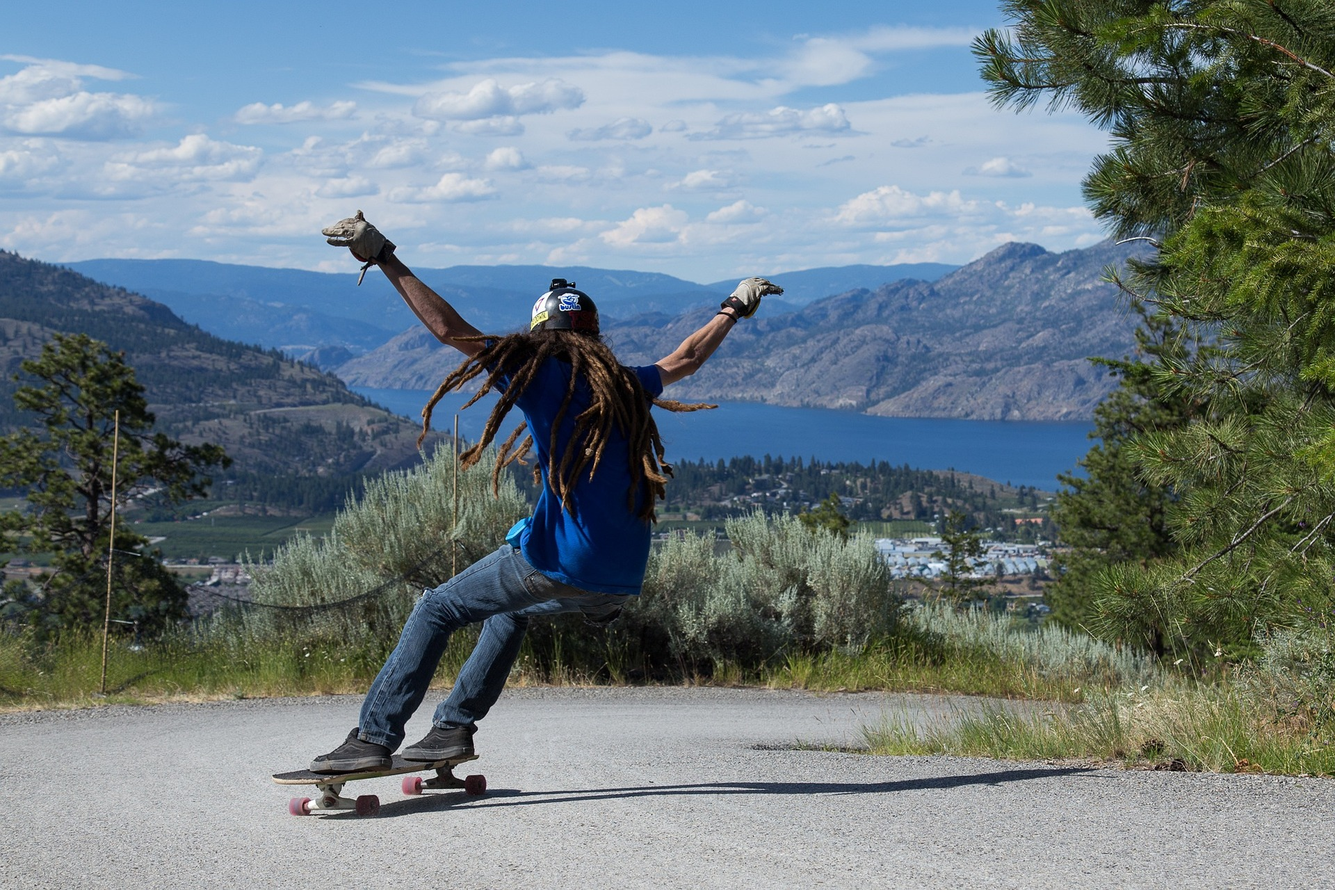
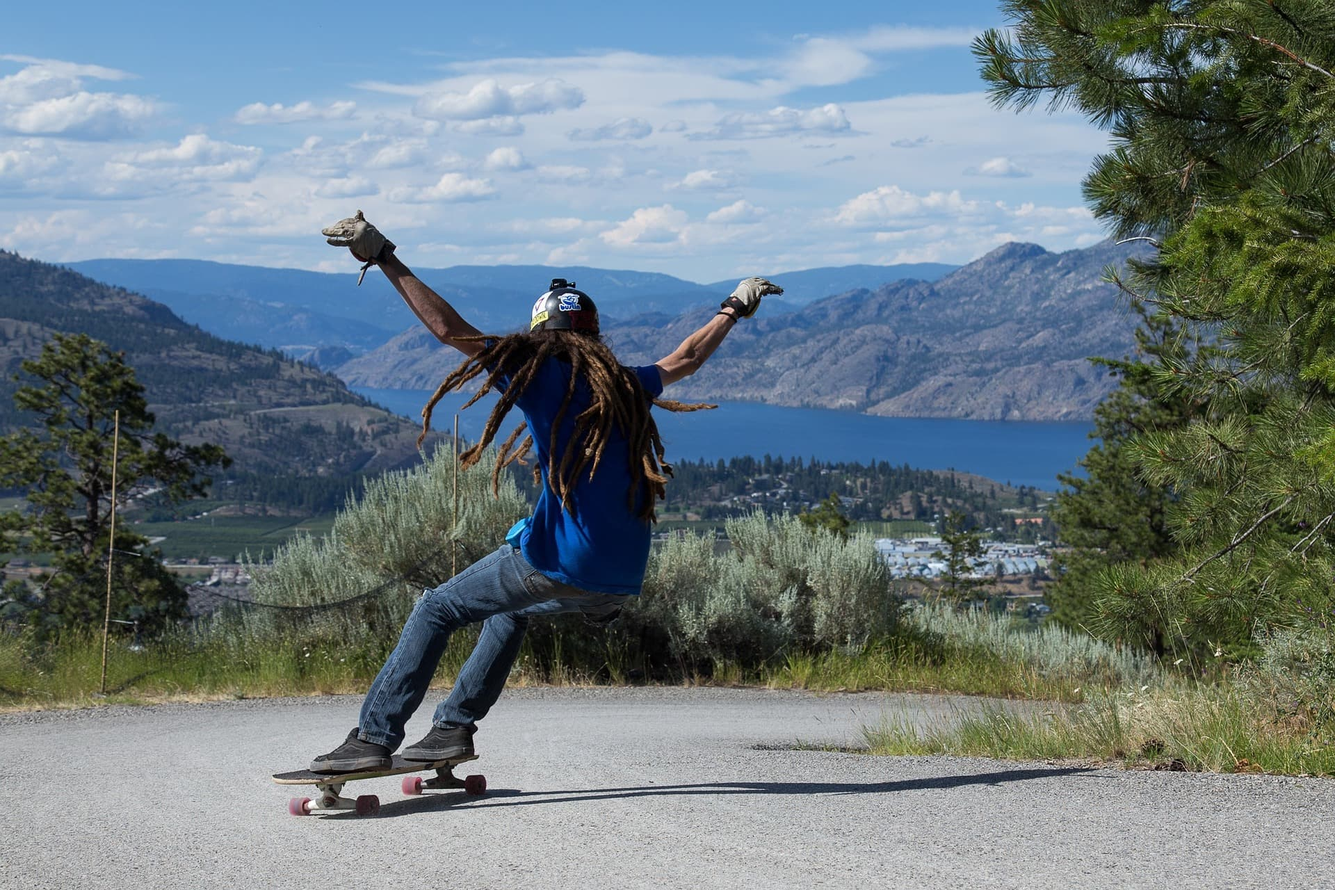
ultima optimizacion de imagen

diff --git a/pages/galeria.html b/pages/galeria.html
@@ -54,7 +54,7 @@
             <h1 class="animate__animated animate__fadeInUp">GALERIA</h1>
             <article>
                 <ul class="galeria__contenido">
-                    <li><img src="../recursos/img/prueba1.png" alt="Skater en prompt"></li>
+                    <li><img src="../recursos/img/prueba1.jpg" alt="Skater en prompt"></li>
                     <li><img src="../recursos/img/galeria-2.jpg" alt="Mobile skatepark"></li>
                     <li><img src="../recursos/img/galeria-3.jpg" alt="Gatos en patineta"></li>
                     <li><img src="../recursos/img/galeria-4.jpg" alt="Skater en downhill"></li>

diff --git a/pages/contacto.html b/pages/contacto.html
@@ -61,7 +61,7 @@
 
                     <em>¡Saludos cordiales!</em>
                 </p>
-                <img src="../recursos/img/skatePark.png" alt="SkatePark">
+                <img src="../recursos/img/skatePark.jpg" alt="SkatePark">
             </article>
             <form action="" class="formulario">
                 <label for="nombre" class="formulario__labels">Nombre</label>
